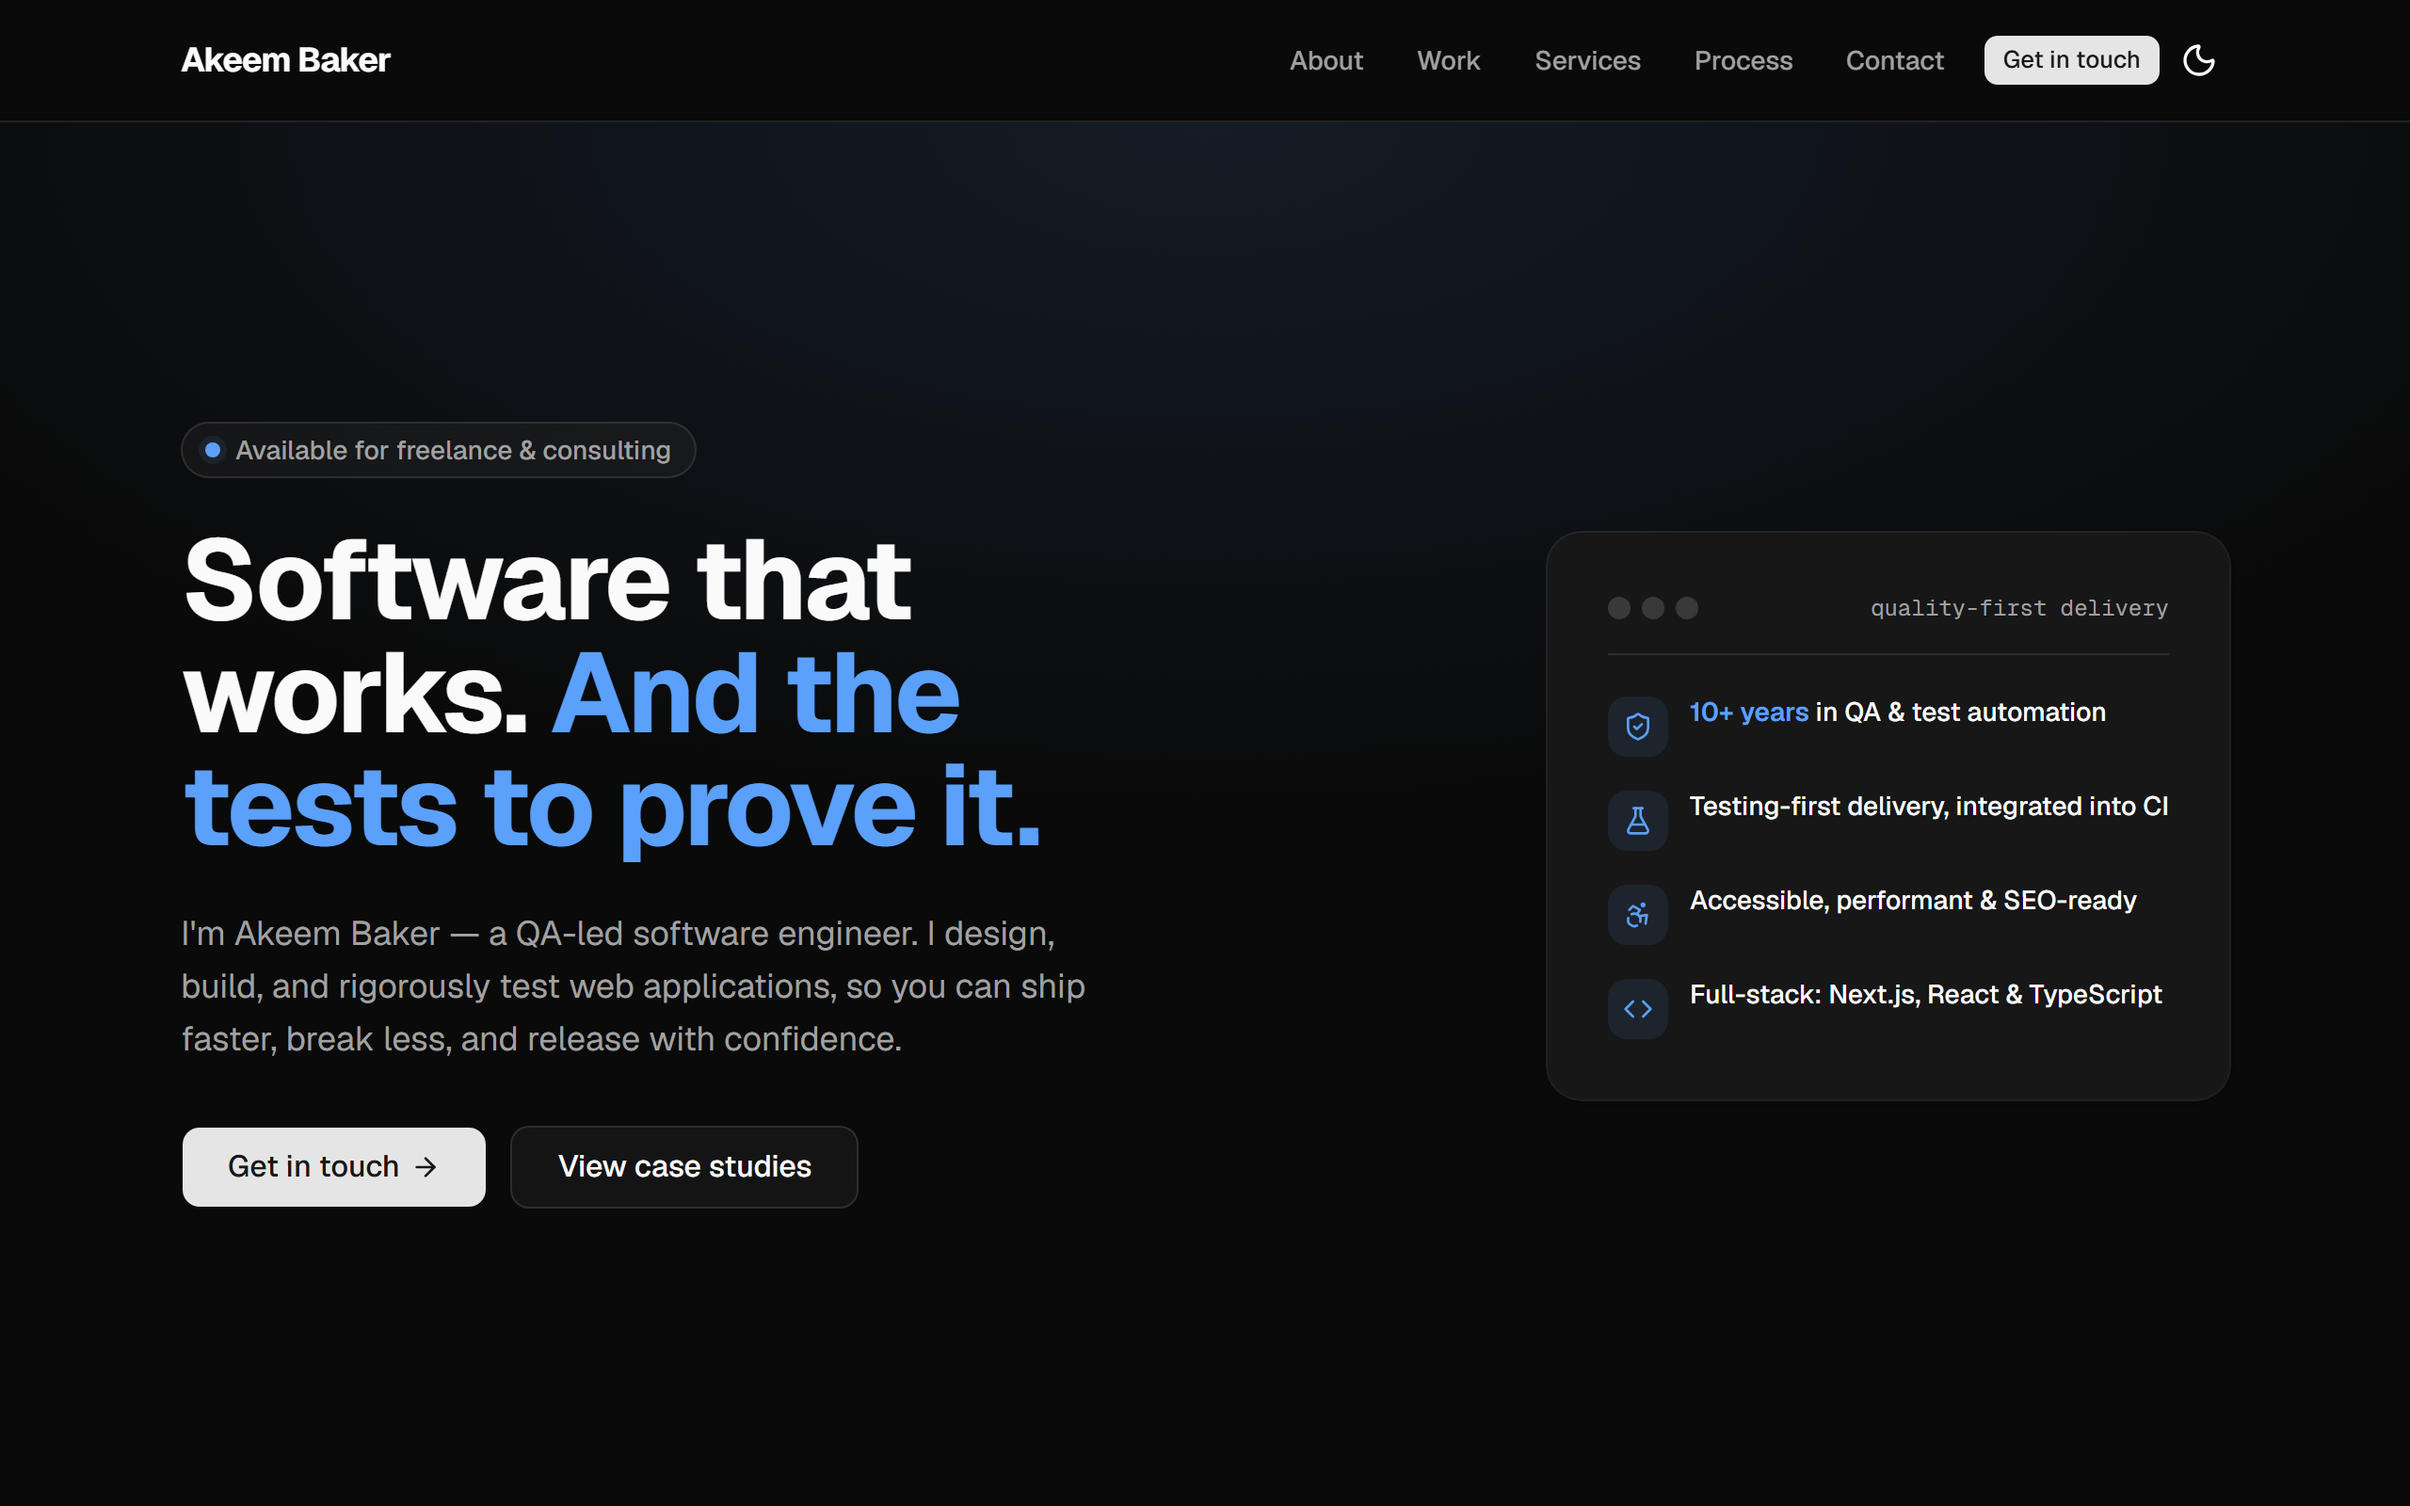
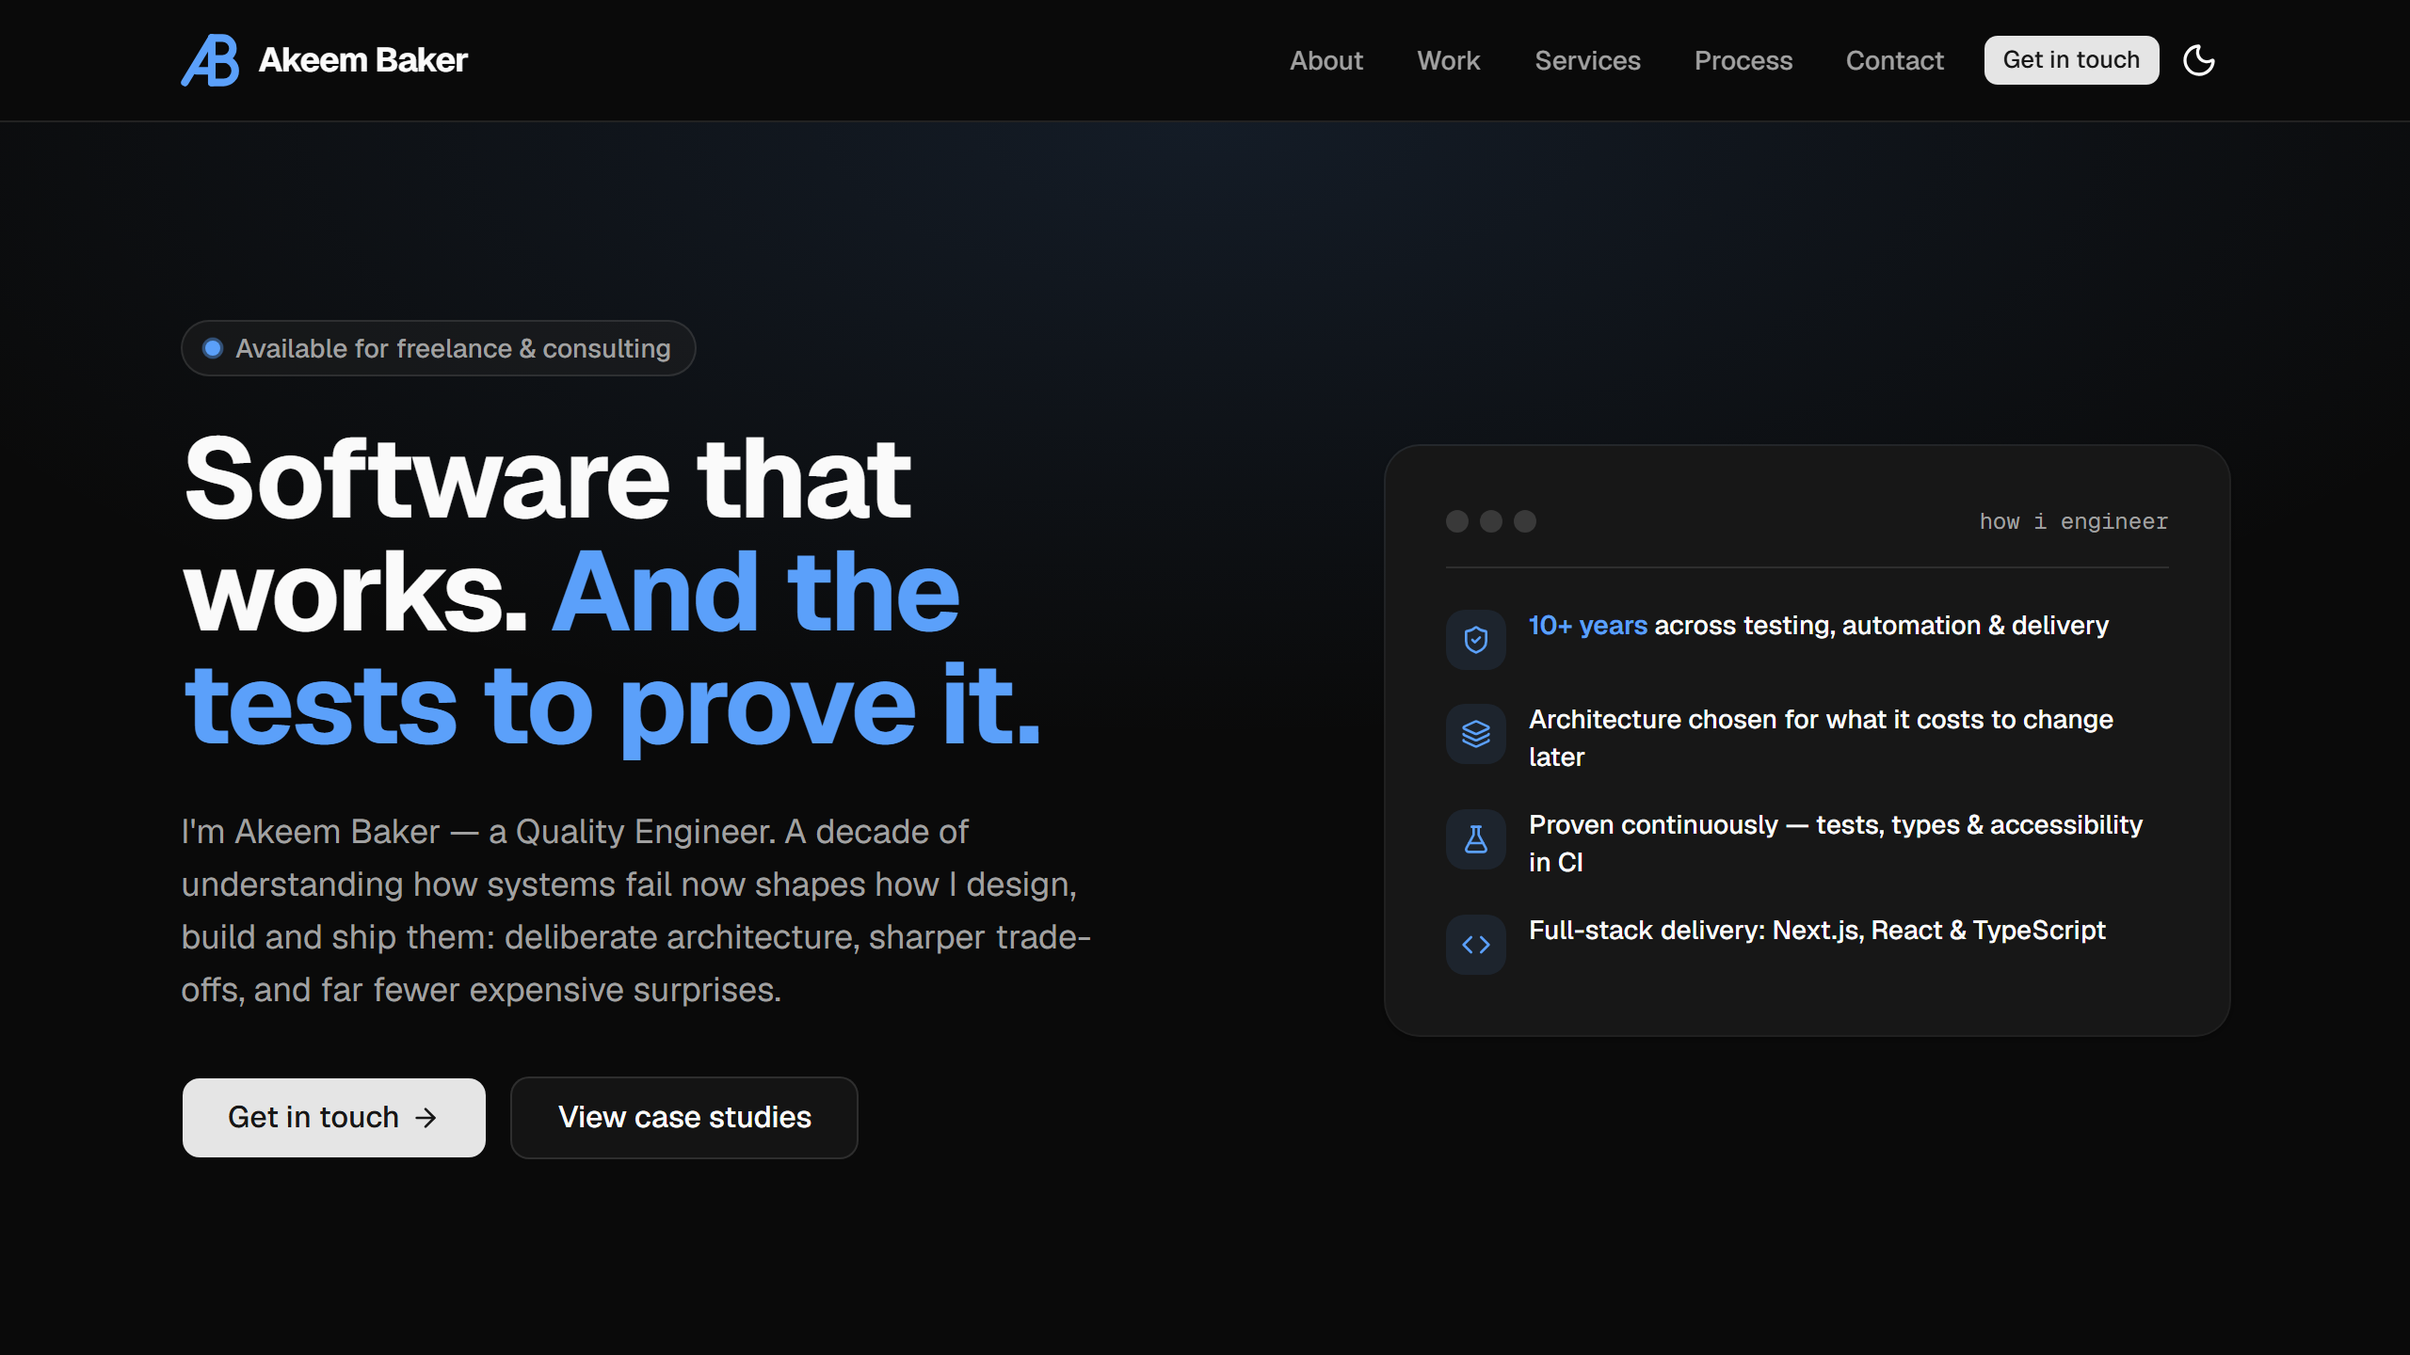
refine(case-study): lead the portfolio study with evidence, not framing
The study opened as "A Content-Driven Consulting Platform" — a web-dev framing
— while its strongest asset (0 axe violations, 100% static, 6 CI gates) sat at
block 8 of 9, where most readers never reached it.

- Retitled "Built to the Standard I'd Apply to Yours" and rewrote the summary
  around verifiability: the claims are checkable because the source is public.
- Moved the metrics block from position 8 to position 2, retitled "The
  evidence" — proof before narrative, mirroring the homepage's proof-first flow.
- Moved the CI-gates prose ahead of the tech stack and retitled it "Every
  change has to earn its way in"; approach should precede tooling.
- Regenerated home-light.png / home-dark.png: the cover still showed the old
  hero ("quality-first delivery", "QA-led software engineer"), contradicting
  the live hero rendered directly above it. Cover alt text updated to match.

Also de-brittles the e2e suite. The case-study test asserted the old title and
failed on this change — the third time copy edits have broken the suite. Tests
now assert structure (a visible non-empty h1, case-study links present, body
sections rendered) rather than marketing copy, so content can change freely
while real regressions still fail. Verified by mutation: removing the h1 still
fails the suite.

Verified: format, lint, typecheck, 23 unit tests, 7 e2e (incl. axe), build.

diff --git a/src/content/projects/portfolio-website.ts b/src/content/projects/portfolio-website.ts
@@ -2,9 +2,9 @@ import { projectSchema, type Project } from "../schema";
 
 const data: Project = {
   slug: "portfolio-website",
-  title: "This Website: A Content-Driven Consulting Platform",
+  title: "This Website: Built to the Standard I'd Apply to Yours",
   summary:
-    "I built my own site the way I'd build a client's product — content-driven, fully tested, accessible, and fast. Here's how I approached it, the decisions I made, and what that means for your project.",
+    "A consulting site is easy to fill with claims about engineering standards. I built mine so the claims are checkable — the architecture, the trade-offs, and the automated gates every change has to pass before it ships.",
   category: "personal",
   role: "Product design, full-stack engineering & QA",
   timeframe: "2026",
@@ -18,7 +18,7 @@ const data: Project = {
   ],
   cover: {
     src: "/projects/portfolio-website/home-light.png",
-    alt: "The homepage hero of this website",
+    alt: "The homepage of this website: the hero headline alongside a credibility panel listing experience, architecture, continuous testing and full-stack delivery.",
   },
   featured: true,
   order: 1,
@@ -36,7 +36,27 @@ const data: Project = {
       title: "Overview",
       body: [
         "This website is my portfolio — but I treated it as a real product with a real goal: help potential clients quickly decide whether I'm the right person to build their software. That meant it couldn't just claim I deliver high-quality work; it had to demonstrate it.",
-        "So I designed and built it end to end as a production-grade application: content-driven, rigorously tested, accessible, fast, and easy to maintain. This case study walks through how I approached it and, more importantly, why — because the same thinking is what I'd bring to your project.",
+        "So I designed and built it end to end as a production-grade application: content-driven, rigorously tested, accessible, fast, and easy to maintain. This case study walks through how I approached it and, more importantly, why — and because the source is public, none of it has to be taken on trust.",
+      ],
+    },
+    {
+      type: "metrics",
+      title: "The evidence",
+      items: [
+        {
+          value: "0",
+          label:
+            "accessibility violations, verified automatically on every build",
+        },
+        {
+          value: "100%",
+          label:
+            "of pages statically rendered — no server to secure or slow down",
+        },
+        {
+          value: "6",
+          label: "automated gates every change has to pass before it ships",
+        },
       ],
     },
     {
@@ -95,6 +115,14 @@ const data: Project = {
       ],
     },
     {
+      type: "prose",
+      title: "Every change has to earn its way in",
+      body: [
+        "Six automated gates stand between a change and production: formatting, linting, type-checking, unit tests, a production build, and end-to-end tests in a real browser — including an accessibility audit that has to report zero issues. Nothing ships unless every one of them passes.",
+        "This is the same discipline I bring to client work: catch problems early, keep the codebase healthy, and make it safe to move quickly without breaking what already works.",
+      ],
+    },
+    {
       type: "techStack",
       title: "How it's built",
       groups: [
@@ -133,30 +161,6 @@ const data: Project = {
           alt: "The website's homepage in dark mode",
           caption:
             "The same site in dark mode — theming built in from the start.",
-        },
-      ],
-    },
-    {
-      type: "prose",
-      title: "How I approached quality",
-      body: [
-        "Quality is where my background shows. Every change runs through automated formatting, linting, type-checking, unit tests, a production build, and end-to-end tests in a real browser — including an accessibility audit that must report zero issues. Nothing ships unless all of it passes.",
-        "This is the same discipline I bring to client work: catch problems early, keep the codebase healthy, and make it safe to move fast without breaking things.",
-      ],
-    },
-    {
-      type: "metrics",
-      title: "The results",
-      items: [
-        {
-          value: "0",
-          label:
-            "accessibility violations, checked automatically on every build",
-        },
-        { value: "100%", label: "of pages statically rendered for speed" },
-        {
-          value: "6",
-          label: "automated quality gates before anything ships",
         },
       ],
     },

diff --git a/e2e/projects.spec.ts b/e2e/projects.spec.ts
@@ -4,12 +4,17 @@ import { expect, test } from "@playwright/test";
 test.describe("Projects index", () => {
   test("renders the heading and at least one case study", async ({ page }) => {
     await page.goto("/projects");
-    await expect(
-      page.getByRole("heading", { level: 1, name: /selected work/i }),
-    ).toBeVisible();
-    await expect(
-      page.getByRole("link", { name: /this website/i }),
-    ).toBeVisible();
+
+    // Assert structure rather than marketing copy. Matching exact headings
+    // here means routine content edits fail the suite without anything
+    // actually being broken — which trains people to ignore red builds.
+    const heading = page.getByRole("heading", { level: 1 });
+    await expect(heading).toBeVisible();
+    await expect(heading).not.toBeEmpty();
+
+    const caseStudyLinks = page.locator('a[href^="/projects/"]');
+    expect(await caseStudyLinks.count()).toBeGreaterThan(0);
+    await expect(caseStudyLinks.first()).toBeVisible();
   });
 
   test("has no detectable WCAG A/AA accessibility violations", async ({
@@ -24,12 +29,13 @@ test.describe("Projects index", () => {
 
   test("a case study renders and is accessible", async ({ page }) => {
     await page.goto("/projects/portfolio-website");
-    await expect(
-      page.getByRole("heading", {
-        level: 1,
-        name: /content-driven consulting platform/i,
-      }),
-    ).toBeVisible();
+
+    const heading = page.getByRole("heading", { level: 1 });
+    await expect(heading).toBeVisible();
+    await expect(heading).not.toBeEmpty();
+    // A case study must actually render body sections, not just a title.
+    expect(await page.locator("article h2").count()).toBeGreaterThan(0);
+
     const results = await new AxeBuilder({ page })
       .withTags(["wcag2a", "wcag2aa", "wcag21a", "wcag21aa"])
       .analyze();

diff --git a/e2e/home.spec.ts b/e2e/home.spec.ts
@@ -6,9 +6,11 @@ import { expect, test } from "@playwright/test";
 test.describe("Home page", () => {
   test("renders the hero heading", async ({ page }) => {
     await page.goto("/");
-    await expect(
-      page.getByRole("heading", { level: 1, name: /software that works/i }),
-    ).toBeVisible();
+    // Structural, not copy-coupled: the contract is "the hero renders a
+    // visible h1", which stays true across messaging changes.
+    const heading = page.getByRole("heading", { level: 1 });
+    await expect(heading).toBeVisible();
+    await expect(heading).not.toBeEmpty();
   });
 
   test("has no detectable WCAG A/AA accessibility violations", async ({

diff --git a/e2e/contact.spec.ts b/e2e/contact.spec.ts
@@ -4,9 +4,9 @@ test.describe("Contact section", () => {
   test("renders the contact form", async ({ page }) => {
     await page.goto("/");
     const contact = page.locator("#contact");
-    await expect(
-      contact.getByRole("heading", { name: /reduce the risk/i }),
-    ).toBeVisible();
+    // The form's controls and behaviour are the contract worth asserting;
+    // the section's headline copy is free to change.
+    await expect(contact.getByRole("heading").first()).toBeVisible();
     await expect(contact.getByLabel("Name", { exact: true })).toBeVisible();
     await expect(contact.getByLabel("Message", { exact: true })).toBeVisible();
   });
